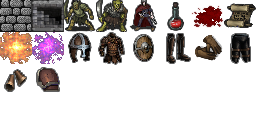
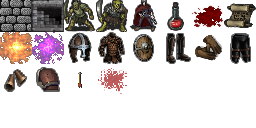
Started to work on projectile animations

Changed region(s): [[0.375, 0.5312, 0.5, 0.7188], [0.2812, 0.5625, 0.3438, 0.6875]]

diff --git a/game.py b/game.py
@@ -35,27 +35,28 @@ class Game:
 
     def tick(self) -> None:
 
-        # Turns are processed only after all animations have been processed and rendered
-        # The gfx_effects list will be empty after all effects have been rendered.
-        if self.game_map.gfx_effects:
-            return
-
         # Get a list of dicts where the results are specified e.g. {"move": True}
         player_turn_results = player_turn(self.player, self.entities,
                                           self.camera, self.game_map,
                                           self.state, self.previous_state,
                                           self.targeting_item)
-        # Wait for player input, the list will be empty if the player didn't do anything
-        if not player_turn_results:
+
+        # Wait for player input during player's turn, the list will be empty if the player didn't do anything
+        if self.state == GameStates.PLAYERS_TURN and not player_turn_results:
+            print("no player input, returning")
             return
 
         # After getting input the results will be processed
         if player_turn_results:
             process_player_turn_results(player_turn_results, self)
 
+        # Enemy turns are processed only after all animations have been processed and rendered
+        # The gfx_effects list will be empty after all effects have been rendered.
+        if len(self.game_map.gfx_effects) > 0:
+            return
+
         if self.state == GameStates.ENEMY_TURN:
             self.game_map.update_scent_tiles(self.player)
-
             # Resolve and process all status effects
             player_effect_results = resolve_effects(self.player.fighter)
             process_player_effect_results(player_effect_results, self)
@@ -67,7 +68,6 @@ class Game:
 
             # Run enemy turns until the player gets enough energy to act
             while self.player.fighter.actions <= 0:
-
                 for fighter in self.fighter_entities:
                     if fighter.speed > 0:
                         fighter.energy += fighter.speed

diff --git a/item_functions.py b/item_functions.py
@@ -4,7 +4,7 @@ from game_messages import Message
 from components.ai import ConfusedMonster
 from components.status_effects import Fireball
 from utils import disk
-from effect import GFX_Effect
+from gfx_effect import GFX_Effect
 
 
 def heal(*args, **kwargs):
@@ -202,14 +202,38 @@ def ranged_attack(*args, **kwargs):
                 "pistol": f"You fire your pistol at the {entity.name}!",
                 "rifle": f"You fire your rifle at the {entity.name}!",
             }
+
             results.append({
                 "consumed":
                 True,
                 "message":
                 Message(fire_ranged_weapon_messages[ranged_weapon_type])
             })
+
             results.append({"ranged_attack": True})
+
             results.extend(caster.fighter.attack(entity, ranged=True))
+
+            # Add projectile animations
+            line = tcod.line_iter(caster.x, caster.y, entity.x, entity.y)
+            anim_delay = 0
+            for coord in line:
+                if coord[0] == caster.x and coord[1] == caster.y:
+                    continue
+                game_map.gfx_effects.append(
+                    GFX_Effect(coord[0],
+                               coord[1],
+                               gfx_effect_tile=0x1012,
+                               duration=0.085,
+                               delay=anim_delay))
+                anim_delay += 0.085
+                if coord[0] == entity.x and coord[1] == entity.y:
+                    game_map.gfx_effects.append(
+                        GFX_Effect(coord[0],
+                                   coord[1],
+                                   gfx_effect_tile=0x1013,
+                                   duration=0.25,
+                                   delay=anim_delay))
             break
     else:
         results.append({

diff --git a/loader_functions/initialize_new_game.py b/loader_functions/initialize_new_game.py
@@ -29,9 +29,9 @@ def get_constants():
     map_width: int = 80
     map_height: int = 60
 
-    room_max_size: int = 12
-    room_min_size: int = 5
-    max_rooms: int = 60
+    room_max_size: int = 10
+    room_min_size: int = 4
+    max_rooms: int = 70
 
     fov_algorithm: int = 0
     fov_light_walls: bool = True
@@ -91,6 +91,16 @@ def get_game_variables(constants):
         base_natural_hp_regeneration_speed=50,
         base_melee_damage_dice={
             "physical": [[1, 6]],
+            "fire": [],
+            "ice": [],
+            "lightning": [],
+            "holy": [],
+            "chaos": [],
+            "arcane": [],
+            "poison": [],
+        },
+        base_ranged_damage_dice={
+            "physical": [[3, 6]],
             "fire": [],
             "ice": [],
             "lightning": [],

diff --git a/turn_processing.py b/turn_processing.py
@@ -78,8 +78,7 @@ def player_turn(player, entities, camera, game_map, game_state,
                             "yellow")
                 })
             # TODO figure out better way to recognize ranged weapon ammp
-            elif player.equipment.RANGED_WEAPON.equippable.equippable_type.ammunition in player.equipment.RANGED_WEAPON_AMMUNITION.name.lower(
-            ):
+            elif player.equipment.RANGED_WEAPON_AMMUNITION and player.equipment.RANGED_WEAPON.equippable.equippable_type.ammunition in player.equipment.RANGED_WEAPON_AMMUNITION.equippable.equippable_type.ammunition_name:
                 ammunition = player.equipment.RANGED_WEAPON_AMMUNITION
                 player_turn_results.extend(
                     player.inventory.use_ammunition(

diff --git a/gfx_effect.py b/gfx_effect.py
@@ -13,16 +13,17 @@ class GFX_Effect:
         self.start_time = None
         self.render = True
         self.expired = False
-        self.start_time = time.perf_counter()
+        self.start_time = time.perf_counter() + delay
 
     def update(self):
-        # Update effect states.
+        # Update gfx_effect states.
         # Check for delay
-        if self.start_time < self.delay:
+
+        if self.start_time > time.perf_counter():
             self.render = False
             return
         # Check for duration
-        if time.perf_counter() - self.start_time > self.duration + self.delay:
+        if time.perf_counter() - self.start_time > self.duration:
             self.expired = True
             return
 

diff --git a/render_functions.py b/render_functions.py
@@ -54,7 +54,6 @@ def render_bar(x, y, total_width, name, value, maximum, bar_color, back_color):
 
 def render_all(entities, player, game_map, message_log, bar_width, panel_y,
                coordinates, camera, game_state, targeting_item):
-
     entities_in_render_order = sorted(entities,
                                       key=lambda x: x.render_order.value)
 
@@ -71,7 +70,6 @@ def render_all(entities, player, game_map, message_log, bar_width, panel_y,
     # This layer contains all stuff that goes over the entities,
     # such as targeting assistance and graphical effects
     terminal.layer(RenderLayer.OVERLAY.value)
-
     for gfx in game_map.gfx_effects:
         gfx.update()
         if gfx.expired:

diff --git a/map_objects/game_map.py b/map_objects/game_map.py
@@ -188,7 +188,8 @@ class GameMap(Map):
                         self.create_v_tunnel(prev_y, new_y, prev_x)
                         self.create_h_tunnel(prev_x, new_x, new_y)
 
-                self.place_entities(new_room, entities)
+                if num_rooms > 0:
+                    self.place_entities(new_room, entities)
 
                 # finally, append the new room to the list
                 rooms.append(new_room)

diff --git a/components/inventory.py b/components/inventory.py
@@ -102,6 +102,7 @@ class Inventory:
                         ammunition.item.quantity -= 1
                     else:
                         self.remove_item(ammunition)
+                        self.owner.equipment.RANGED_WEAPON_AMMUNITION = None
 
             results.extend(item_use_results)
         return results

diff --git a/components/fighter.py b/components/fighter.py
@@ -143,7 +143,7 @@ class Fighter:
         self.status_effects: List = []
         self.xp_reward: int = xp_reward
         self.energy: int = 0
-        self.base_fov_radius: int = 5
+        self.base_fov_radius: int = 7
         self.owner = None
         self.actions = 0
 
